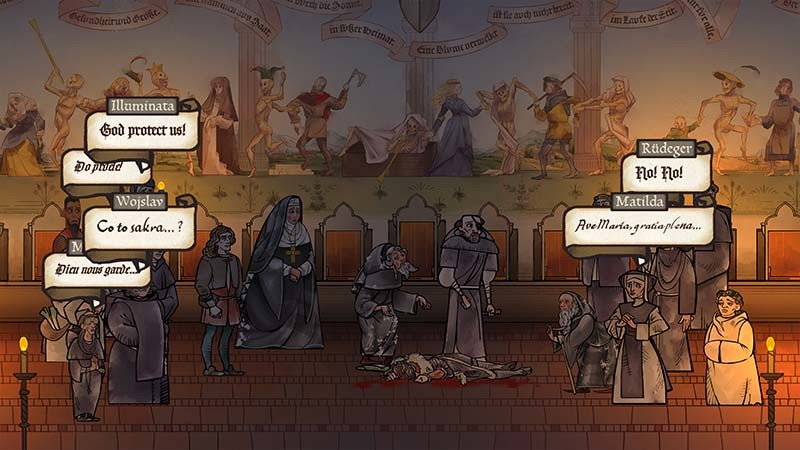
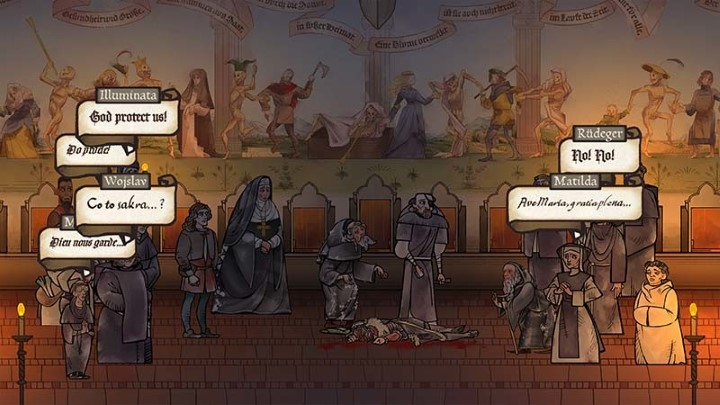
Size images to fit

diff --git a/public/css/site.css b/public/css/site.css
@@ -27,6 +27,10 @@
   }
 }
 
+.post img {
+  width: 100%;
+}
+
 .playIcon {
   height: 1em;
   width: 1em;
